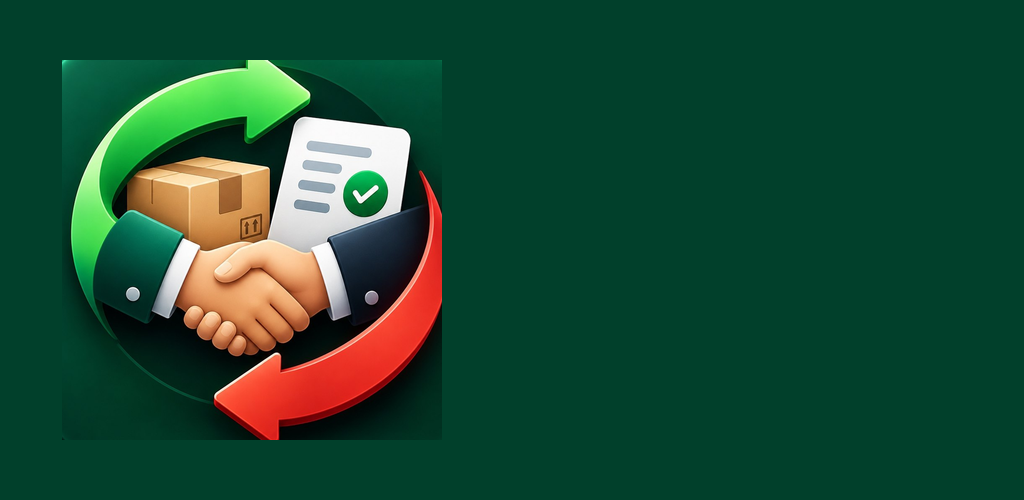
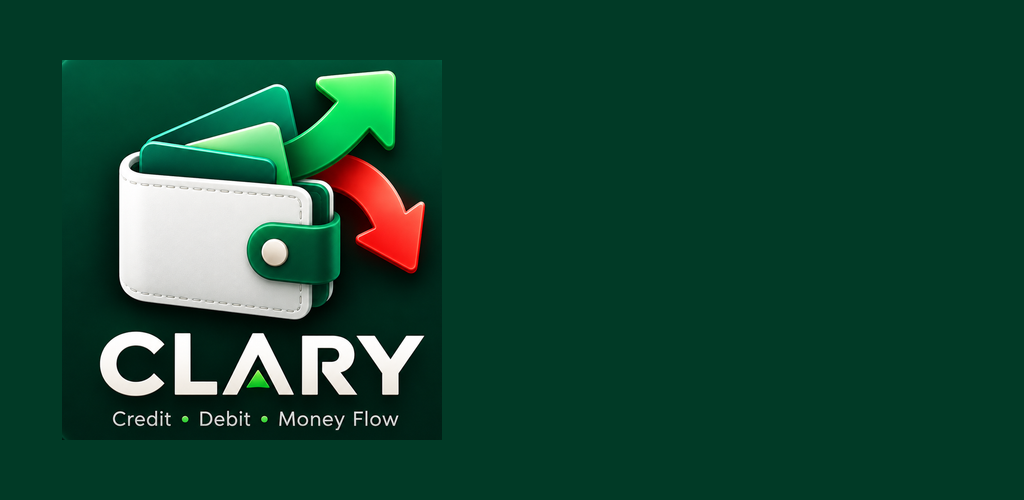
Ilova nomi Clary, yangi ikonka, bildirishnoma olib tashlandi
NOM. «Credit Debit» -> «Clary» (shiori: Credit · Debit · Money Flow).
O'zgargani — faqat ODAM KO'RADIGAN joylar: ilova nomi, kirish ekrani,
«Yana» pastidagi qator, huquqiy sahifalar, paneldagi yo'nalish nomi.

Ataylab O'ZGARMADI: paket nomi `uz.yukchibolla.creditdebit` (Play'da
ilovaning o'zgarmas kimligi), `slug` va EAS loyihasi (build tarixi
shunga bog'langan), `scheme` va saytdagi yo'llar (mavjud havolalar
ishlayverishi kerak).

IKONKA. Yangi manba rasm (hamyon, ikki o'q, CLARY yozuvi) — to'plam
o'sha skript bilan qayta chiqarildi, u chegarani o'zi o'lchaydi.
Fon rangi #013a26.

QARORLAR (20.09):
- bildirishnoma KERAK EMAS — muddati o'tgan qarz ro'yxatning o'zida
  ajralib turadi, tashqariga xabar ketmaydi;
- tasdiqlanmagan bitim ham qoldiqqa kiradi (PLAN-OLDI-BERDI 7.4) —
  aks holda daftar hamkorning tugma bosishiga bog'liq bo'lib qolardi.

Rejadan bitta qaror qoldi: bitim alohida jadval bo'lishi (4-bo'lim).

Versiya 1.9.0 (kod 11).

Changed region(s): [[0.0625, 0.12, 0.4375, 0.9], [0.0625, 0.12, 0.0938, 0.15]]

diff --git a/apps/kassa/ommaviy/maxfiylik.html b/apps/kassa/ommaviy/maxfiylik.html
@@ -3,8 +3,8 @@
 <head>
 <meta charset="utf-8">
 <meta name="viewport" content="width=device-width, initial-scale=1">
-<title>Credit Debit — maxfiylik siyosati</title>
-<meta name="description" content="Credit Debit qanday ma'lumot yig'adi, qayerda saqlaydi va qanday o‘chiradi.">
+<title>Clary — maxfiylik siyosati</title>
+<meta name="description" content="Clary qanday ma'lumot yig'adi, qayerda saqlaydi va qanday o‘chiradi.">
 <style>
   :root {
     --fon: #f4f6f8; --karta: #fff; --chegara: #e4e9ef;
@@ -50,7 +50,7 @@
   <div class="ichki">
     <div class="belgi"><span>↑</span><span>↓</span></div>
     <h1>Maxfiylik siyosati</h1>
-    <p class="past">Credit Debit · oxirgi yangilanish: 13.09.2026</p>
+    <p class="past">Clary · oxirgi yangilanish: 13.09.2026</p>
   </div>
 </div>
 
@@ -59,7 +59,7 @@
   <div class="karta">
     <h2>Qisqacha</h2>
     <p style="margin:0;color:var(--matn2)">
-      Credit Debit — shaxsiy va kichik biznes uchun hisob-kitob daftari.
+      Clary — shaxsiy va kichik biznes uchun hisob-kitob daftari.
       Biz yozuvlaringizni <b>hech kimga sotmaymiz, reklama uchun
       ishlatmaymiz va boshqa foydalanuvchilarga ko‘rsatmaymiz</b>.
       Ma’lumot faqat sizniki — uni istalgan vaqtda butunlay o‘chira olasiz.

diff --git a/apps/kassa/ommaviy/hisob-ochirish.html b/apps/kassa/ommaviy/hisob-ochirish.html
@@ -3,8 +3,8 @@
 <head>
 <meta charset="utf-8">
 <meta name="viewport" content="width=device-width, initial-scale=1">
-<title>Credit Debit — hisobni o‘chirish</title>
-<meta name="description" content="Credit Debit ilovasida hisobni va barcha ma'lumotni o‘chirish tartibi.">
+<title>Clary — hisobni o‘chirish</title>
+<meta name="description" content="Clary ilovasida hisobni va barcha ma'lumotni o‘chirish tartibi.">
 <style>
   :root {
     --fon: #f4f6f8; --karta: #fff; --chegara: #e4e9ef;
@@ -47,7 +47,7 @@
 <div class="sarlavha">
   <div class="ichki">
     <div class="belgi"><span>↑</span><span>↓</span></div>
-    <h1>Credit Debit — hisobni o‘chirish</h1>
+    <h1>Clary — hisobni o‘chirish</h1>
     <p class="past">Yukchibolla platformasi · uz.yukchibolla.creditdebit</p>
   </div>
 </div>
@@ -57,7 +57,7 @@
   <div class="karta">
     <h2>Ilova orqali (eng tez yo‘l)</h2>
     <ol>
-      <li>Credit Debit ilovasini oching</li>
+      <li>Clary ilovasini oching</li>
       <li>Pastdagi <b>Yana</b> bo‘limiga kiring</li>
       <li><b>Sozlamalar</b> → pastda <b>Hisobni o‘chirish</b></li>
       <li>Ikki marta tasdiqlang</li>

diff --git a/apps/kassa/src/lib/til.ts b/apps/kassa/src/lib/til.ts
@@ -70,7 +70,7 @@ const RU: Record<string, string> = {
   'Yana': 'Ещё',
 
   // ---------- Kirish ----------
-  'CREDIT DEBIT': 'CREDIT DEBIT',
+  'CLARY': 'CLARY',
   'Hisob-kitob daftari': 'Книга учёта',
   'Email': 'Эл. почта',
   'Parol': 'Пароль',
@@ -192,7 +192,7 @@ const RU: Record<string, string> = {
   'Sun’iy intellekt agentini daftaringizga ulash':
     'Подключение ИИ-агента к вашей книге',
   'Biznes nomi, ko‘rinish, chiqish': 'Название бизнеса, оформление, выход',
-  'Credit Debit · Yukchibolla platformasi': 'Credit Debit · Платформа Yukchibolla',
+  'Clary · Yukchibolla platformasi': 'Clary · Платформа Yukchibolla',
   'Turkumlar': 'Категории',
   'TURKUMLAR': 'КАТЕГОРИИ',
 

diff --git a/apps/admin/src/lib/yonalishlar.ts b/apps/admin/src/lib/yonalishlar.ts
@@ -113,10 +113,10 @@ export const TENANT_YONALISHLAR: TenantYonalish[] = [
   {
     key: 'kassa',
     belgi: '💰',
-    // Mahsulot nomi — "Credit Debit". Bazadagi kalit `kassa` bo'lib
+    // Mahsulot nomi — "Clary". Bazadagi kalit `kassa` bo'lib
     // qoladi (jadvallar ham `kassa_*`): ko'rinadigan nom marketingga
     // qarab o'zgaradi, kalit esa migratsiya talab qiladi.
-    nom: 'CREDIT DEBIT',
+    nom: 'CLARY',
     izoh: 'hisob-kitob daftari: kirim-chiqim, hisoblar, qarz — alohida ilovada',
     // Bu yo'nalishning ekranlari panelda emas, ALOHIDA ilovada
     // (Play Market va app.yukchibolla.com/kassa). Shuning uchun

diff --git a/apps/kassa/src/ekran/YanaEkrani.tsx b/apps/kassa/src/ekran/YanaEkrani.tsx
@@ -114,7 +114,7 @@ export default function YanaEkrani({
         <Qator nom={tr('Sozlamalar')} izoh={tr('Biznes nomi, ko‘rinish, chiqish')} ong="›" bos={() => setSahifa('sozlama')} />
 
         <View style={{ padding: O.chekka, paddingTop: 24 }}>
-          <Text style={{ color: C.xira, fontSize: 12, textAlign: 'center' }}>{tr('Credit Debit · Yukchibolla platformasi')}</Text>
+          <Text style={{ color: C.xira, fontSize: 12, textAlign: 'center' }}>{tr('Clary · Yukchibolla platformasi')}</Text>
         </View>
       </ScrollView>
     </View>

diff --git a/apps/kassa/src/ekran/KirishEkrani.tsx b/apps/kassa/src/ekran/KirishEkrani.tsx
@@ -80,7 +80,7 @@ export default function KirishEkrani() {
           <Text style={s.belgiYuqori}>↑</Text>
           <Text style={s.belgiPast}>↓</Text>
         </View>
-        <Text style={s.nom}>{tr('CREDIT DEBIT')}</Text>
+        <Text style={s.nom}>{tr('CLARY')}</Text>
         <Text style={s.izoh}>{tr('Hisob-kitob daftari')}</Text>
 
         <View style={s.karta}>

diff --git a/PLAN-OLDI-BERDI.md b/PLAN-OLDI-BERDI.md
@@ -1,4 +1,4 @@
-# Oldi-berdi: Credit Debit'ni qayta qurish rejasi
+# Oldi-berdi: Clary'ni qayta qurish rejasi
 
 > Sana: 2026-09-20. Asos: foydalanuvchining 20.09 dagi konsepsiyasi.
 > Hozirgi holat: `PLAN-KASSA.md`, audit: `PLAN-AUDIT.md`.
@@ -281,7 +281,7 @@ Loyihada qarz boti allaqachon bor va uning darslari yozilgan
 - **tasdiqni faqat KUTILMOQDA holatidagi bitim qabul qiladi.**
   Yopilganini qayta tasdiqlab bo'lmaydi.
 
-### 7.4. Eng muhim qaror: tasdiq SHART EMAS
+### 7.4. Eng muhim qaror: tasdiq SHART EMAS  ✅ TASDIQLANDI (20.09)
 
 **Tasdiqlanmagan bitim ham qoldiqqa kiradi.**
 
@@ -356,12 +356,13 @@ Telegram tasdig'i yo'q.
 - Hisobotga «tasdiqlangan / tasdiqlanmagan qarz» ustuni
 - Lug'atga yangi matnlar (`kassa-til` sinovi ularni talab qiladi)
 
-### 5-bosqich — Hujjat va eslatma (2 kun)
+### 5-bosqich — Hujjat (1 kun)
 
 - Bitim bo'yicha PDF (hozirgi `hujjat.ts` dvigateli qayta ishlatiladi)
-- Muddati o'tgan qarz eslatmasi — auditdagi 5-band shu yerda yopiladi
+- Muddati o'tgan qarz ro'yxatda QIZIL bo'lib turadi (bildirishnoma yo'q —
+  qaror 20.09: kerak emas)
 
-**Jami: ~12 ish kuni.**
+**Jami: ~11 ish kuni.**
 
 ---
 
@@ -388,8 +389,8 @@ Telegram tasdig'i yo'q.
 
 ## 11. Ochiq savollar — sizdan
 
-1. **Nom.** «IDAA Money Management» qaror qilingan bo'lsa, bu reja
-   uning ostida boradi. Ikonka varianti ham tanlanishi kerak.
+1. ~~**Nom**~~ — hal bo'ldi (20.09): **Clary**, shiori «Credit · Debit ·
+   Money Flow». Ikonka ham qo'yildi.
 
 2. **Bot.** Tasdiqlash uchun **yangi bot** ochamizmi yoki mavjud
    `telegram-qarz` botiga kassa shoxini qo'shamizmi? Mening fikrim:
@@ -405,17 +406,21 @@ Telegram tasdig'i yo'q.
    Birinchi bosqichda **qo'lda** deb o'ylayman — katalog keyin, agar
    bir xil tovar takrorlanayotgani ko'rinsa.
 
-5. **Eslatma** qaysi kanal orqali: Telegram yoki push? Bot qilingandan
-   keyin Telegram arzonroq va ishonchliroq bo'ladi.
+5. ~~**Eslatma kanali**~~ — hal bo'ldi (20.09): **bildirishnoma
+   qilinmaydi**. Muddati o'tgan qarz ro'yxatning o'zida ajralib turadi
+   (qizil sana), tashqariga hech qanday xabar ketmaydi.
 
 ---
 
 ## 12. Birinchi qadam
 
-Tasdiqlashingiz kerak bo'lgan ikki narsa bor, qolgani ularga bog'liq:
+**7.4 tasdiqlandi** (20.09): tasdiqlanmagan bitim ham qoldiqqa kiradi.
+Daftar boshqa odamning tugma bosishiga bog'liq bo'lmaydi.
 
-- **4-bo'limdagi qaror:** bitim alohida jadval bo'ladi, daftar
-  o'zgarmaydi;
-- **7.4-dagi qaror:** tasdiqlanmagan bitim ham qoldiqqa kiradi.
+Qolgan bitta qaror — **4-bo'limdagi**: bitim `kassa_bitimlar` degan
+ALOHIDA jadval bo'ladi, daftar (`kassa_yozuvlar`) esa qo'shib
+yoziladigan bo'lib qoladi. Sababi o'sha bo'limda: bitimning hayoti bor
+(yaratildi → tasdiqlandi → qisman to'landi → yopildi), daftar
+yozuvining esa yo'q — u bo'lib o'tgan fakt.
 
-Shu ikkisiga «ha» desangiz, 1-bosqichdan boshlayman.
+Shunga «ha» desangiz, 1-bosqichdan boshlayman.

diff --git a/PLAN-AUDIT.md b/PLAN-AUDIT.md
@@ -228,7 +228,7 @@ Ta'siri katta va arzonidan boshlab:
 | 2 | Tegish maydonlari 48 dp | **bajarildi** | Chip 44, qator 56, tugma 48 dp |
 | 3 | Oxirgi turkum + «Takrorlash» + tez summalar | **bajarildi** | Yozuv 2 tegishga tushdi |
 | 4 | Ming ajratgich + sana tanlash | **bajarildi** | `ifodaKorinish`, «Bugun/Kecha» |
-| 5 | Qarz eslatmasi (bildirishnoma) | savol ochiq | Kanal tanlanishi kerak (7.3) |
+| 5 | Qarz eslatmasi (bildirishnoma) | **kerak emas** | Qaror 20.09: bildirishnoma qilinmaydi |
 | 6 | Kun yopish + kassa sanog'i | **bajarildi** | Kechqurun taklif, farq yozuv bo'lib tushadi |
 | 7 | Telegram bot (yozuv kiritish) | savol ochiq | Qaror kerak (7.2) |
 | 8 | Planshet/web kengligi | **bajarildi** | Markazda 640 px ustun |
@@ -243,10 +243,11 @@ bo'yicha ishlaydi, hisobot valyutalarni aralashtirmaydi, kechqurun
 kassa sanog‘i taklif qilinadi va telefondagi nosozlik endi bizga
 yetib keladi.
 
-**Qolgani** (5 va 7) — ikkalasi ham TASHQARIGA chiqadigan aloqa:
-bildirishnoma va Telegram bot. Ular texnik emas, qaror masalasi —
-7-bo'limdagi savollarga javob kerak: xabar qaysi kanal orqali
-boradi va bot qilinadimi.
+**Bildirishnoma (5)** — 20.09 dagi qaror bo'yicha QILINMAYDI.
+Muddati o'tgan qarz ro'yxatning o'zida ajralib turadi.
+
+**Qolgani (7)** — Telegram bot orqali yozuv kiritish. Texnik emas,
+qaror masalasi: bot qilinadimi.
 
 ---
 

diff --git a/apps/kassa/PLAY-QOLLANMA.md b/apps/kassa/PLAY-QOLLANMA.md
@@ -1,4 +1,4 @@
-# Credit Debit — Google Play va APK qo'llanmasi
+# Clary — Google Play va APK qo'llanmasi
 
 Bu ilova (`apps/kassa`) — platformaning **kassa** yo'nalishi: hisob-kitob
 daftari. B2B mijoz ilovasidan (`apps/mobile`) alohida turadi: alohida
@@ -6,7 +6,7 @@ paket nomi, alohida ikonka, alohida hisob (odam o'zi ro'yxatdan o'tadi).
 
 | | |
 |---|---|
-| Ilova nomi | Credit Debit |
+| Ilova nomi | Clary |
 | Paket (Android) | `uz.yukchibolla.creditdebit` |
 | EAS loyihasi | `@amirxon.ai4020/credit-debit` |
 | Web manzili | `app.yukchibolla.com/kassa/` |
@@ -103,8 +103,8 @@ etadi:
 
 ## 4. Do'kon sahifasi uchun grafika — tayyor
 
-Hammasi manba rasmdan yasaladi: `node scripts/idaa-ikonka-yasa.mjs apps/kassa/assets/manba-ikonka.jpg`
-(yoki `pnpm --filter @ilova/kassa logo`). Manba `assets/manba-ikonka.jpg`.
+Hammasi manba rasmdan yasaladi: `node scripts/clary-ikonka-yasa.mjs apps/kassa/assets/manba-ikonka.png`
+(yoki `pnpm --filter @ilova/kassa logo`). Manba `assets/manba-ikonka.png`.
 
 | Fayl | O'lcham | Qayerda kerak |
 |---|---|---|

diff --git a/apps/kassa/AI-ULANISH.md b/apps/kassa/AI-ULANISH.md
@@ -1,4 +1,4 @@
-# Credit Debit — AI agentni ulash (MCP)
+# Clary — AI agentni ulash (MCP)
 
 Daftaringizga sun'iy intellekt agentini ulaysiz va u pul, qarz va
 hisobot savollariga javob beradi:
